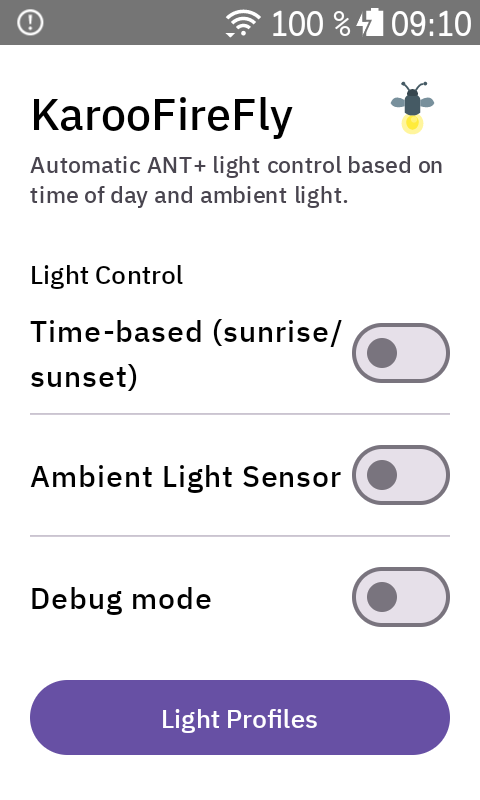
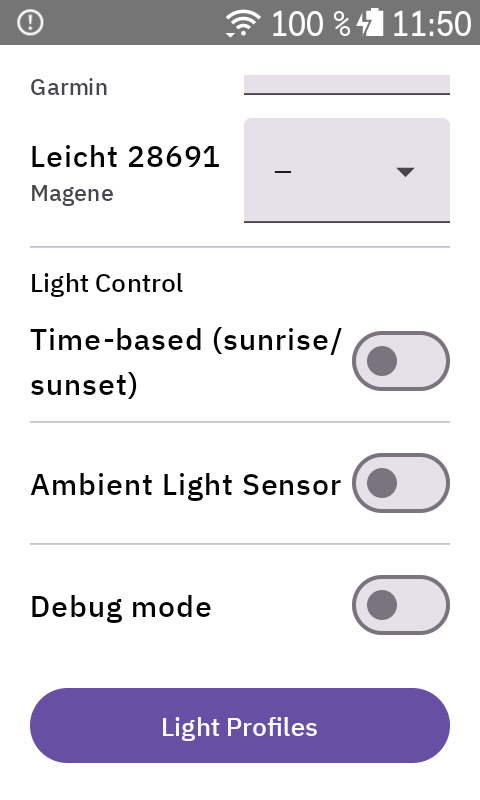
Update README and screenshots for new light assignment UI
Reflect simplified 2-zone model, manual front/rear light assignment
with manufacturer info, and updated screenshots from device.

diff --git a/README.md b/README.md
@@ -8,38 +8,43 @@ ANT+ Smart Bike Light Controller extension for Hammerhead Karoo 3.
 
 > **Early Development / Use at Your Own Risk**
 >
-> This extension is in early development and has only been tested with a **Magene L508** rear light on a Karoo 3. Other ANT+ lights (Garmin Varia, Bontrager Ion/Flare, etc.) should work but are untested. The extension uses an undocumented internal Karoo API that may break with firmware updates. Use at your own risk.
+> This extension uses an undocumented internal Karoo API that may break with firmware updates. Tested with Magene L508 and Garmin Varia RTL 515. Other ANT+ lights (Bontrager Ion/Flare, etc.) should work but are untested. Use at your own risk.
 
 ## Overview
 
-Controls ANT+ bike lights paired through Karoo's native sensor settings. Unlike Karoo's built-in light support which only toggles on/off at ride start/stop, KarooFireFly sets specific light modes based on time of day.
+Controls ANT+ bike lights paired through Karoo's native sensor settings. Unlike Karoo's built-in light support which only toggles on/off at ride start/stop, KarooFireFly sets specific light modes based on time of day and ambient light conditions.
 
-**What works:**
+**Features:**
+- Discover and assign paired lights as Front or Rear with manufacturer info
 - Independent feature switches: Time-based and Ambient Light Sensor (enable one or both)
-- Automatic light mode switching based on time of day (sunrise/sunset calculation)
-- Ambient light sensor based mode switching (Karoo 3's built-in lux sensor)
-- Combined mode (both enabled): time-based baseline with ambient sensor override (e.g. tunnels)
+- Automatic light mode switching based on time of day (sunrise/sunset with configurable offsets)
+- Ambient light sensor mode switching (Karoo 3's built-in lux sensor)
+- Combined mode: time-based baseline with ambient sensor override (e.g. tunnels)
+- Two zones: Day and Night with clear "Day starts at" / "Night starts at" times
 - Zone change notifications with sound during rides (configurable)
-- Auto on with ride start, auto off with ride stop
+- Auto on/off with ride start/stop
 - Auto-save — all settings take effect immediately
-- Configurable light profiles per time zone (day / dusk / night)
-- Configurable dawn/dusk time offsets with calculated zone start times
-- Configurable lux thresholds for ambient light zones with live lux readout
-- Uses Karoo-paired lights — no separate pairing needed
+- Configurable light profiles per zone (Day / Night) with separate front and rear modes
+- Multiple lights per role supported
 - BonusActions mappable to AXS shift buttons or Karoo hardware buttons:
   - **Toggle Lights** — turns all lights on/off
   - **Cycle Mode** — cycles through modes (Off → Steady High → Steady Low → Slow Flash → Fast Flash)
 
-**Planned / Not yet implemented:**
-- Graphical data field showing light status on the ride screen
-
 ## How It Works
 
-Pair your ANT+ lights through **Karoo's native sensor settings** (Settings > Sensors). When a ride starts, KarooFireFly automatically discovers the paired lights and controls their mode through Karoo's internal SensorService. No pairing UI in the extension — just configure your light profiles and time offsets.
+Pair your ANT+ lights through **Karoo's native sensor settings** (Settings > Sensors). KarooFireFly discovers paired lights and shows them in the Connected Lights section where you assign each light as Front or Rear. When a ride starts, the extension automatically controls their mode based on your settings.
 
 The extension communicates with Karoo's SensorService via its internal AIDL interface to send light mode commands. This means the extension works with whatever lights Karoo has already paired and connected — no need for separate ANT+ channel management.
 
 ## Settings
+
+### Connected Lights
+
+Discovered ANT+ lights are shown with their name and manufacturer. Assign each light as Front, Rear, or None.
+
+<p align="center">
+  <img src="docs/settings_lights.png" width="240" alt="Connected Lights">
+</p>
 
 ### Light Control
 
@@ -47,27 +52,23 @@ Enable one or both features independently via switches:
 
 | Feature | Description |
 |---------|-------------|
-| **Time-based (sunrise/sunset)** | Automatic mode switching based on sunrise/sunset calculation |
+| **Time-based (sunrise/sunset)** | Automatic mode switching at configurable times relative to sunrise/sunset |
 | **Ambient Light Sensor** | Automatic mode switching based on Karoo 3's built-in lux sensor |
 
 When both are enabled, time-based acts as the baseline and the ambient sensor can only darken the zone (e.g. tunnel detection). When neither is enabled, lights only respond to BonusButton presses.
 
 <p align="center">
-  <img src="docs/settings_manual.png" width="240" alt="Manual mode (both off)">
   <img src="docs/settings_timebased.png" width="240" alt="Time-based mode">
-</p>
-<p align="center">
   <img src="docs/settings_ambient.png" width="240" alt="Ambient light mode">
-  <img src="docs/settings_combined.png" width="240" alt="Combined mode (both on)">
 </p>
 
 ### Zone Change Notifications
 
-When enabled, an in-ride alert with sound is shown whenever the light zone changes (e.g. DAY → DUSK). The notification shows the reason (sunrise/sunset or light sensor) and the resulting light modes for front and rear.
+When enabled, an in-ride alert with sound is shown whenever the light zone changes (e.g. DAY → NIGHT). The notification shows the reason (sunrise/sunset or light sensor) and the resulting light modes for front and rear.
 
 ### Light Profiles
 
-Configure which light mode to use for each time zone (Day, Dusk/Dawn, Night) with separate front and rear settings. Changes are saved immediately.
+Configure which light mode to use for each zone (Day, Night) with separate front and rear settings. Changes are saved immediately.
 
 <p align="center">
   <img src="docs/settings_profiles.png" width="240" alt="Light profiles">
@@ -75,7 +76,7 @@ Configure which light mode to use for each time zone (Day, Dusk/Dawn, Night) wit
 
 ### Manual Override
 
-When using an auto mode, BonusButton presses temporarily override the automatic control. The override clears automatically when the light zone changes (e.g. sunset transition or exiting a tunnel) or when the ride state changes (pause/stop).
+When using an auto mode, BonusButton presses temporarily override the automatic control. The override clears automatically when the light zone changes or when the ride state changes (pause/stop).
 
 ## Architecture
 
@@ -83,7 +84,7 @@ When using an auto mode, BonusButton presses temporarily override the automatic 
 
 1. **Karoo Integration** (`karoo/`) — SensorService AIDL binding, light mode commands
 2. **Engine** (`engine/`) — State machine, sunrise/sunset calculation, ambient light sensor
-3. **Data** (`data/`) — DataStore settings, light profiles
+3. **Data** (`data/`) — DataStore settings, light profiles, light assignments
 4. **Extension** (`KarooLightControllerExtension.kt`) — KarooExtension service, entry point
 5. **DataTypes** (`datatypes/`) — Graphical data field for ride screen
 6. **UI** (`ui/`) — Jetpack Compose settings/profile screens
@@ -92,9 +93,9 @@ When using an auto mode, BonusButton presses temporarily override the automatic 
 
 1. **Manual Override** — BonusAction pressed, holds until zone change or ride state change
 2. **Auto Mode** — Zone determined by configured control mode:
-   - *Time-based:* sunrise/sunset calculation
+   - *Time-based:* sunrise/sunset with configurable offsets (±3 hours)
    - *Ambient Light:* lux sensor with smoothing (10s moving average) and hysteresis (10s dwell time)
-   - *Combined:* time-based baseline, sensor can darken but not brighten (e.g. tunnel → NIGHT, but headlights at night stay NIGHT)
+   - *Combined:* time-based baseline, sensor can darken but not brighten (e.g. tunnel → NIGHT)
 3. **Ride State** — Lights off when ride ends
 
 ## Development Setup
